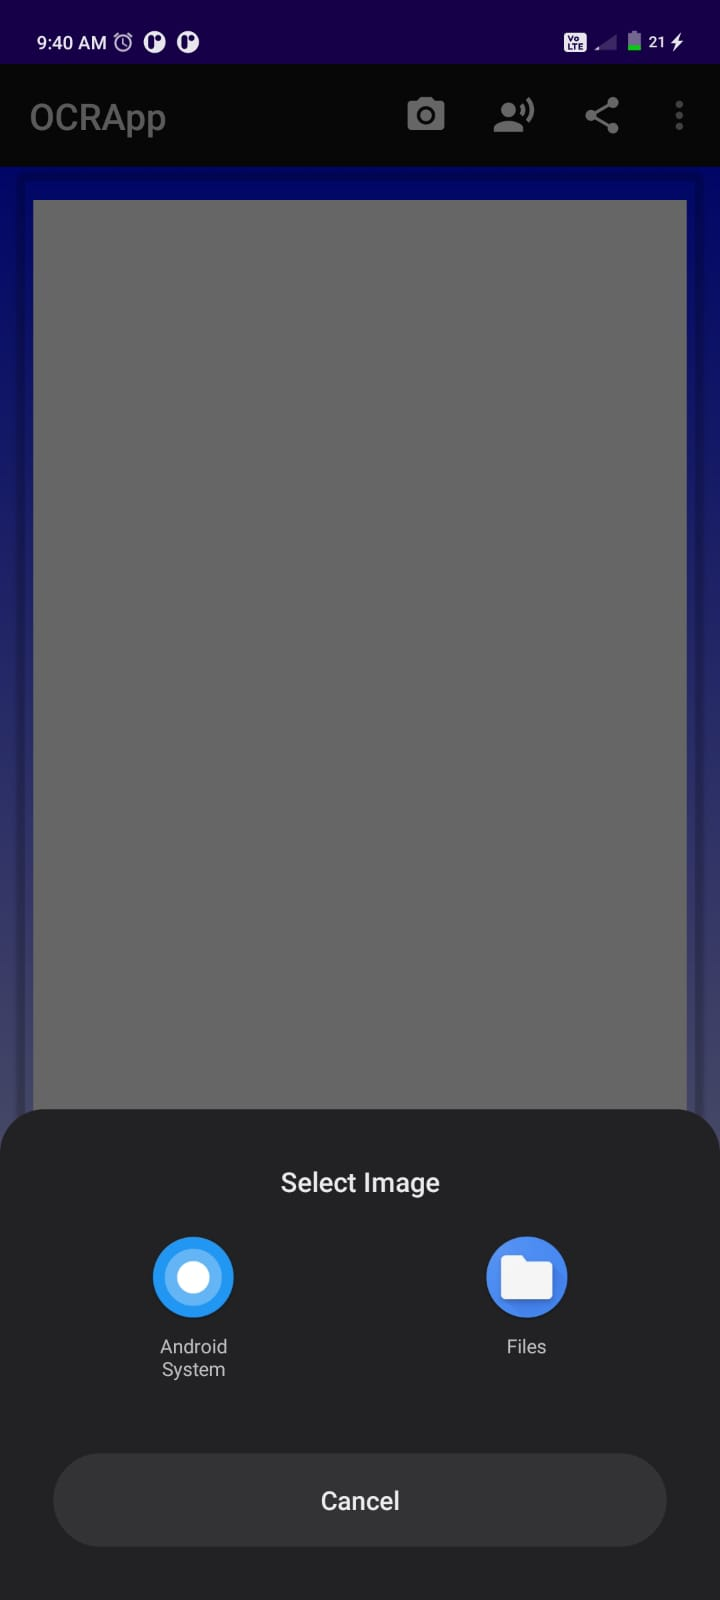
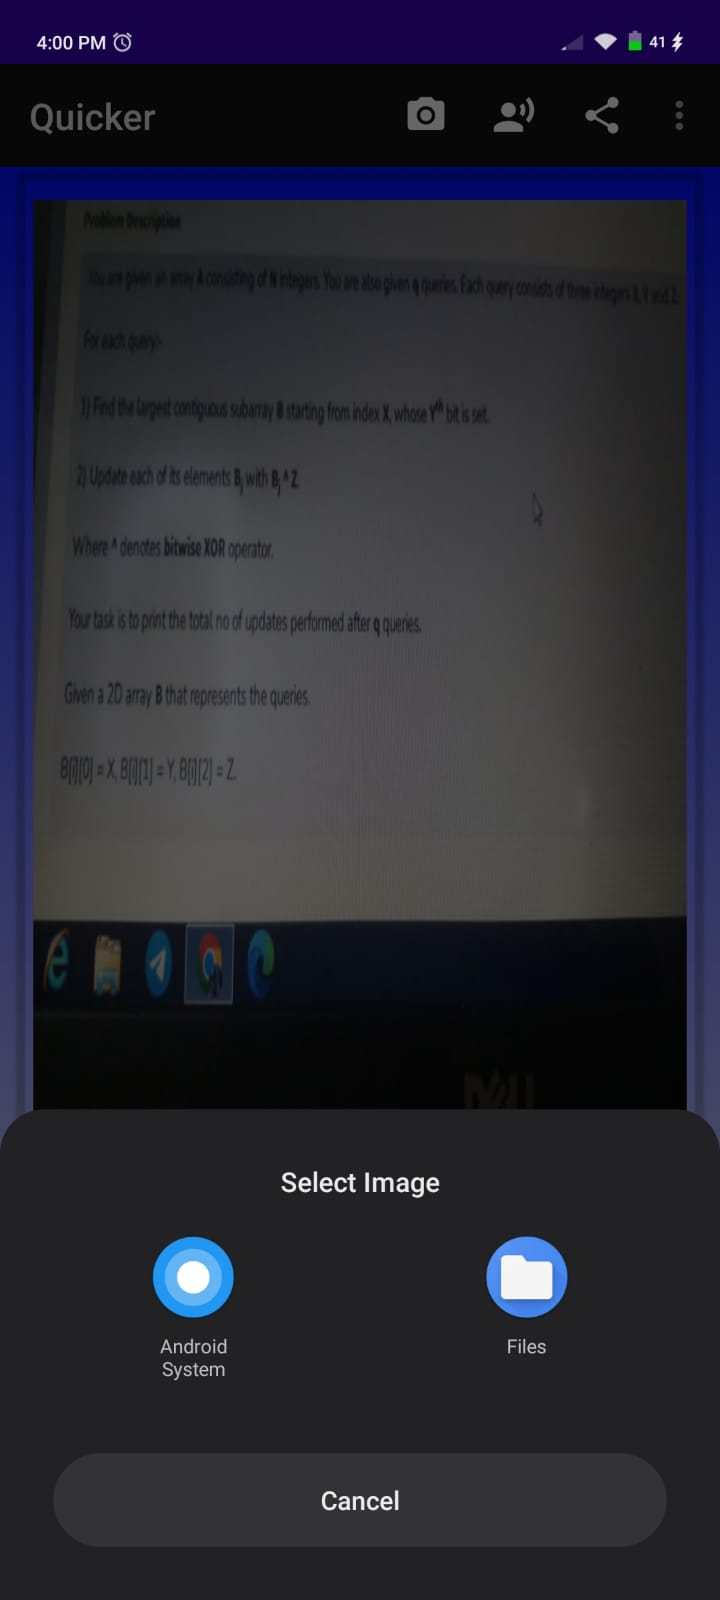
modified

diff --git a/README.md b/README.md
@@ -1,4 +1,4 @@
-# OCR(Optical Character Recognition) App.
+# Quicker(Android Application)
 
 <p align="center">
     <img src="https://github.com/prog-cy/OCR_App/blob/master/screen1.jpeg" width = "200" height = "400" 
